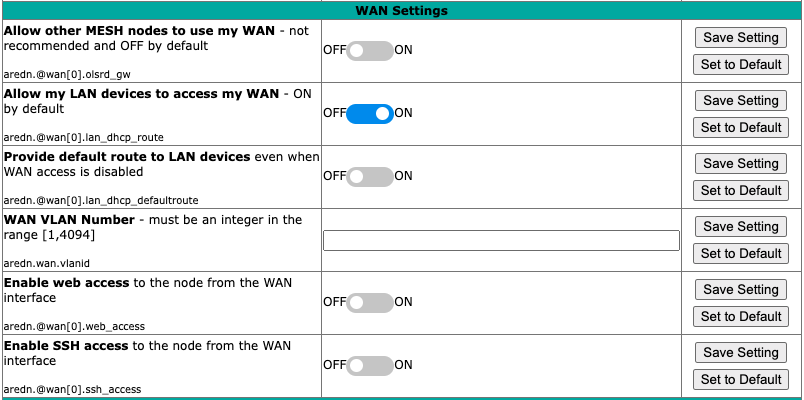
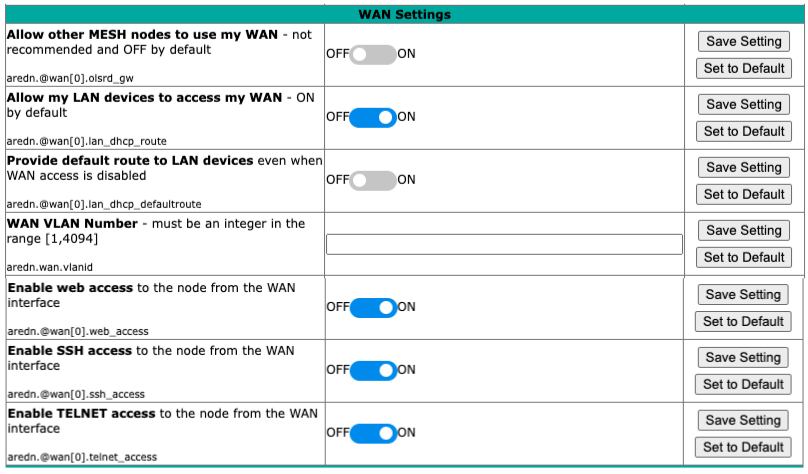
add new adv conf WAN interface settings

Changed region(s): [[0.0, 0.0, 1.0, 1.0]]

diff --git a/arednGettingStarted/advanced_config.rst b/arednGettingStarted/advanced_config.rst
@@ -512,11 +512,8 @@ WAN VLAN Number
 
   .. warning:: If you plan to change this setting, do not use single digit identifiers or any number larger than can be supported by your network equipment. Different types of network equipment can support various numbers of VLANS, but the maximum number is limited by the `802.1Q standard <https://en.wikipedia.org/wiki/IEEE_802.1Q#Frame_format>`_ to no more than 4094.
 
-Enable Web access
-  Access to your node from the WAN is now disabled by default. If you need to have web access to your node from the WAN, then you can turn it ``ON`` here. Remember that the default value is ``OFF`` and you should not turn it on unless you have a special reason to do so.
-
-Enable SSH access
-  Access to your node from the WAN is now disabled by default. If you need to have command line access to your node from the WAN, then you can turn ``ON`` SSH access here. Remember that the default value is ``OFF`` and you should not turn it on unless you have a special reason to do so.
+Enable Web, SSH, or Telnet Access
+  HTTP, SSH, and Telnet access to your node is enabled by default on your node's WAN interface. If you need to restrict this access to your node from the WAN, then you can turn it ``OFF`` here.
 
 PoE and USB Power Passthrough
 ^^^^^^^^^^^^^^^^^^^^^^^^^^^^^
